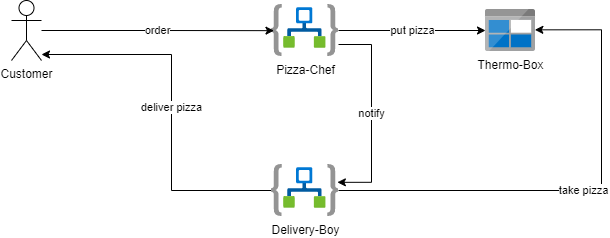
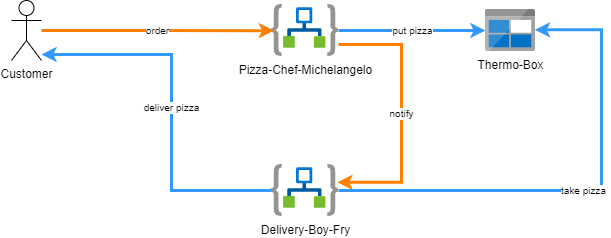
docs: :memo: update docs for lab-1

diff --git a/lab-1/README.md b/lab-1/README.md
@@ -2,9 +2,26 @@
 
 ![Architecture Lab-1](../docs/static/architecture-Lab-1.png)
 
+### Deploying the resources
+
+```bash
+az group create \
+  --name 'pizza-lab-1'\
+  --location westeurope \
+  --tags workshop=azureIntegration
+
+az deployment group create \
+  --resource-group 'pizza-lab-1' \
+  --template-file ./azuredeploy.bicep \
+  --parameters pizzaChefName='michelangelo' \
+      deliveryBoyName='fry'
+```
+
+> **Note**: After the deployment succeeded, you need to manually authorize the o365 connection via the Azure portal (Edit API connection/Authorize/Save). You need to use an o365 account. Personal accounts without o365 license won't work.
+
 ### Calling the pizza chef from Postman
 
-Create a POST request in Postman and add the following json body:
+Create a POST request in [Postman](https://www.postman.com/downloads/) and add the following json body:
 
 ```json
 {
